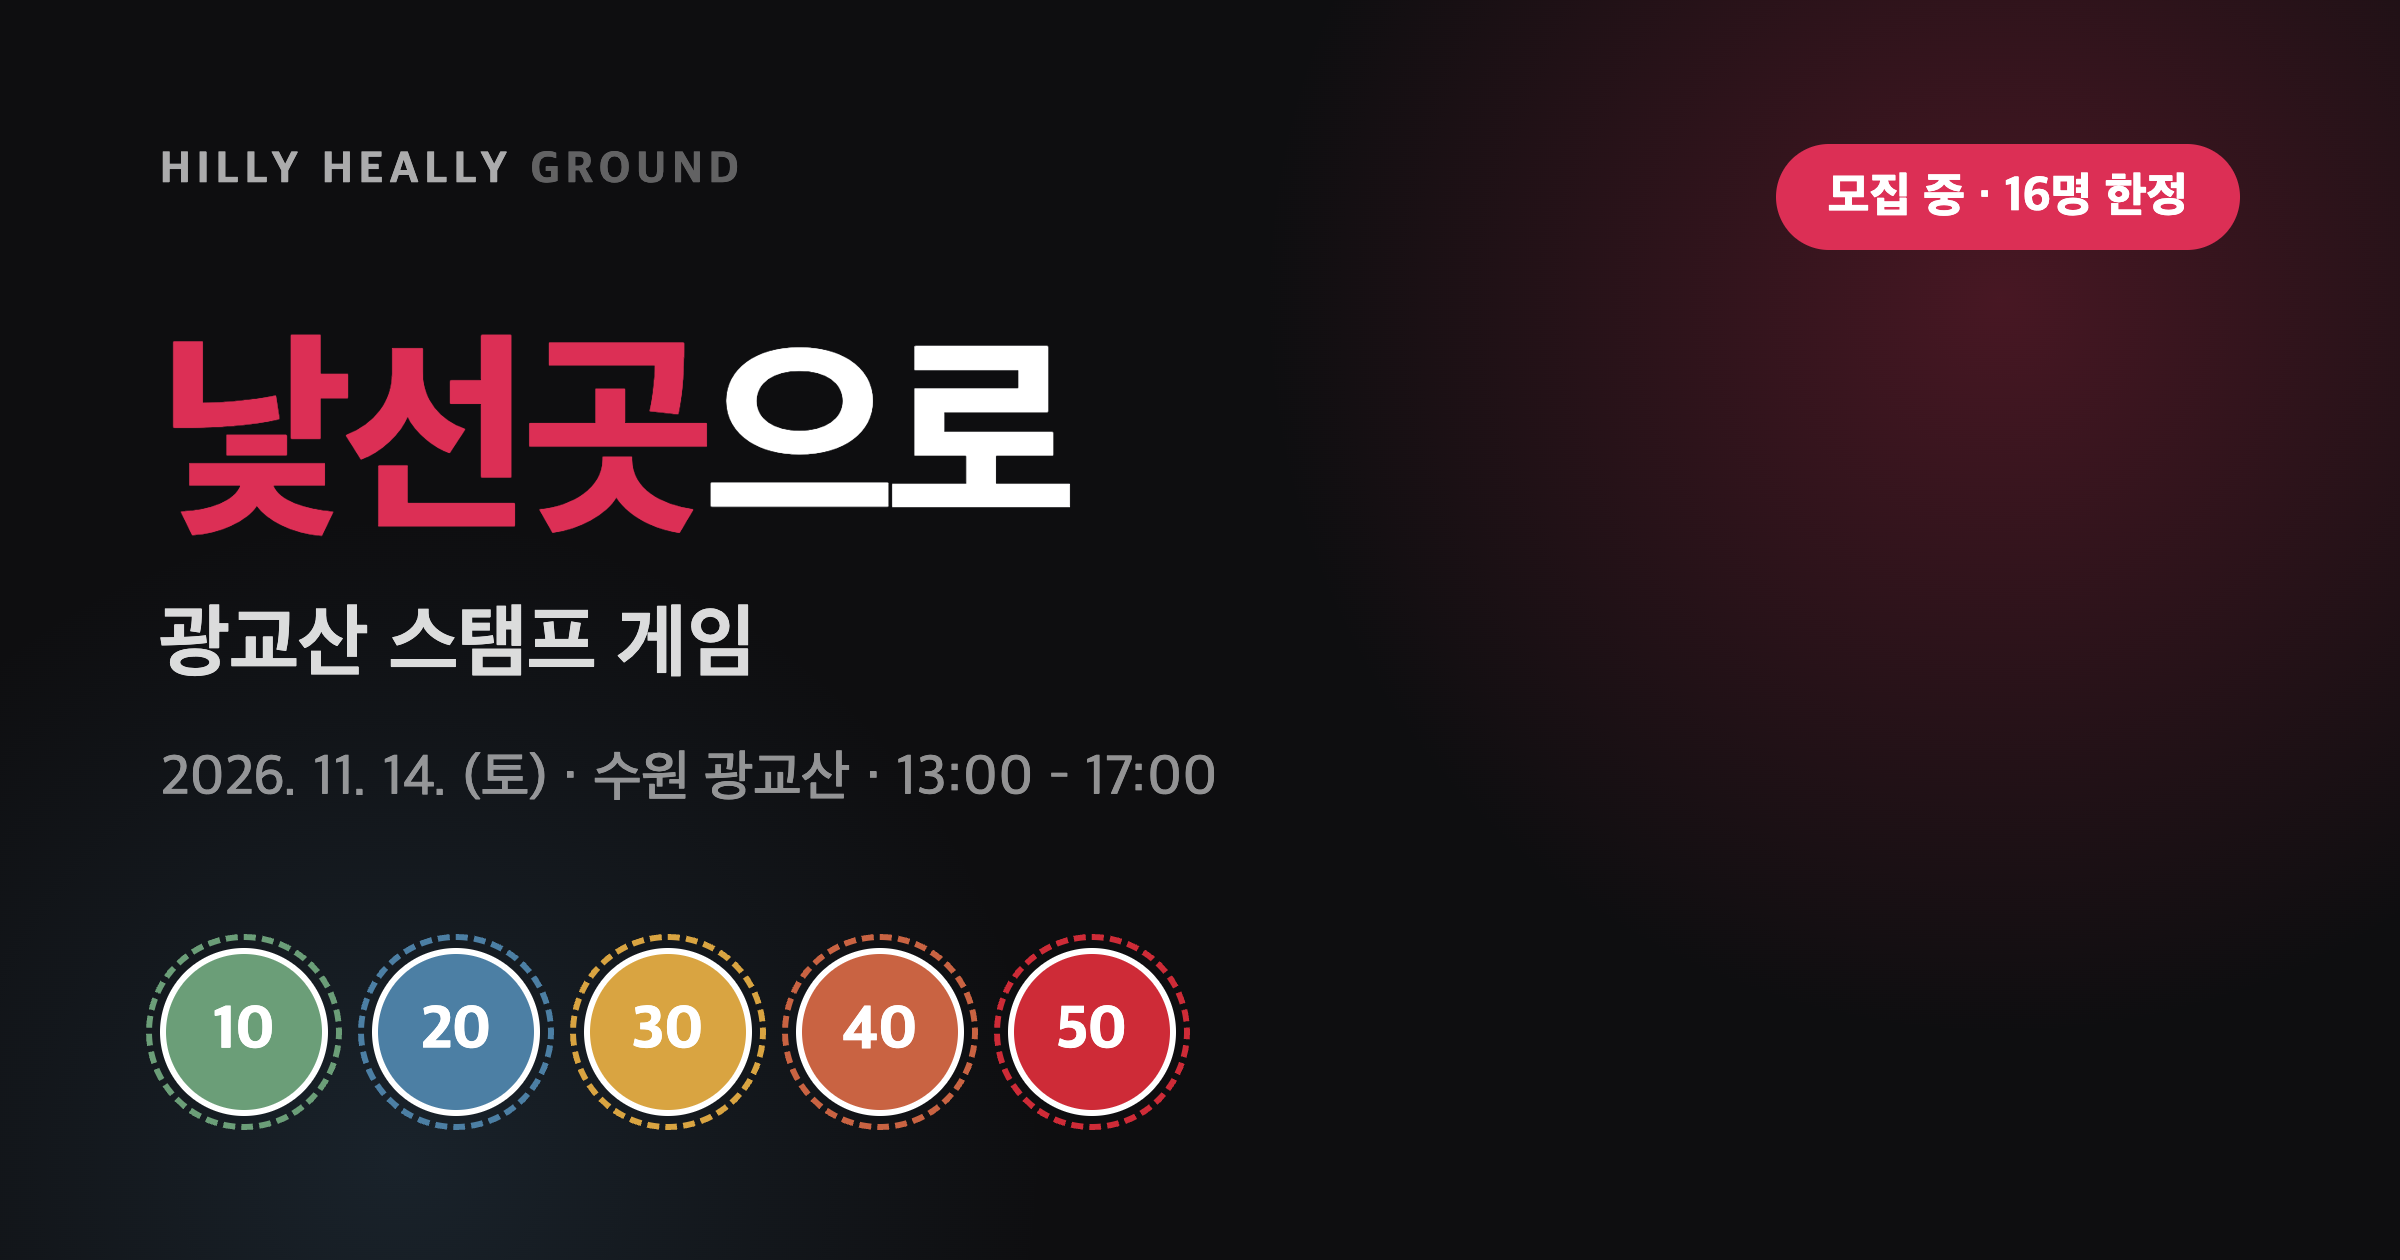
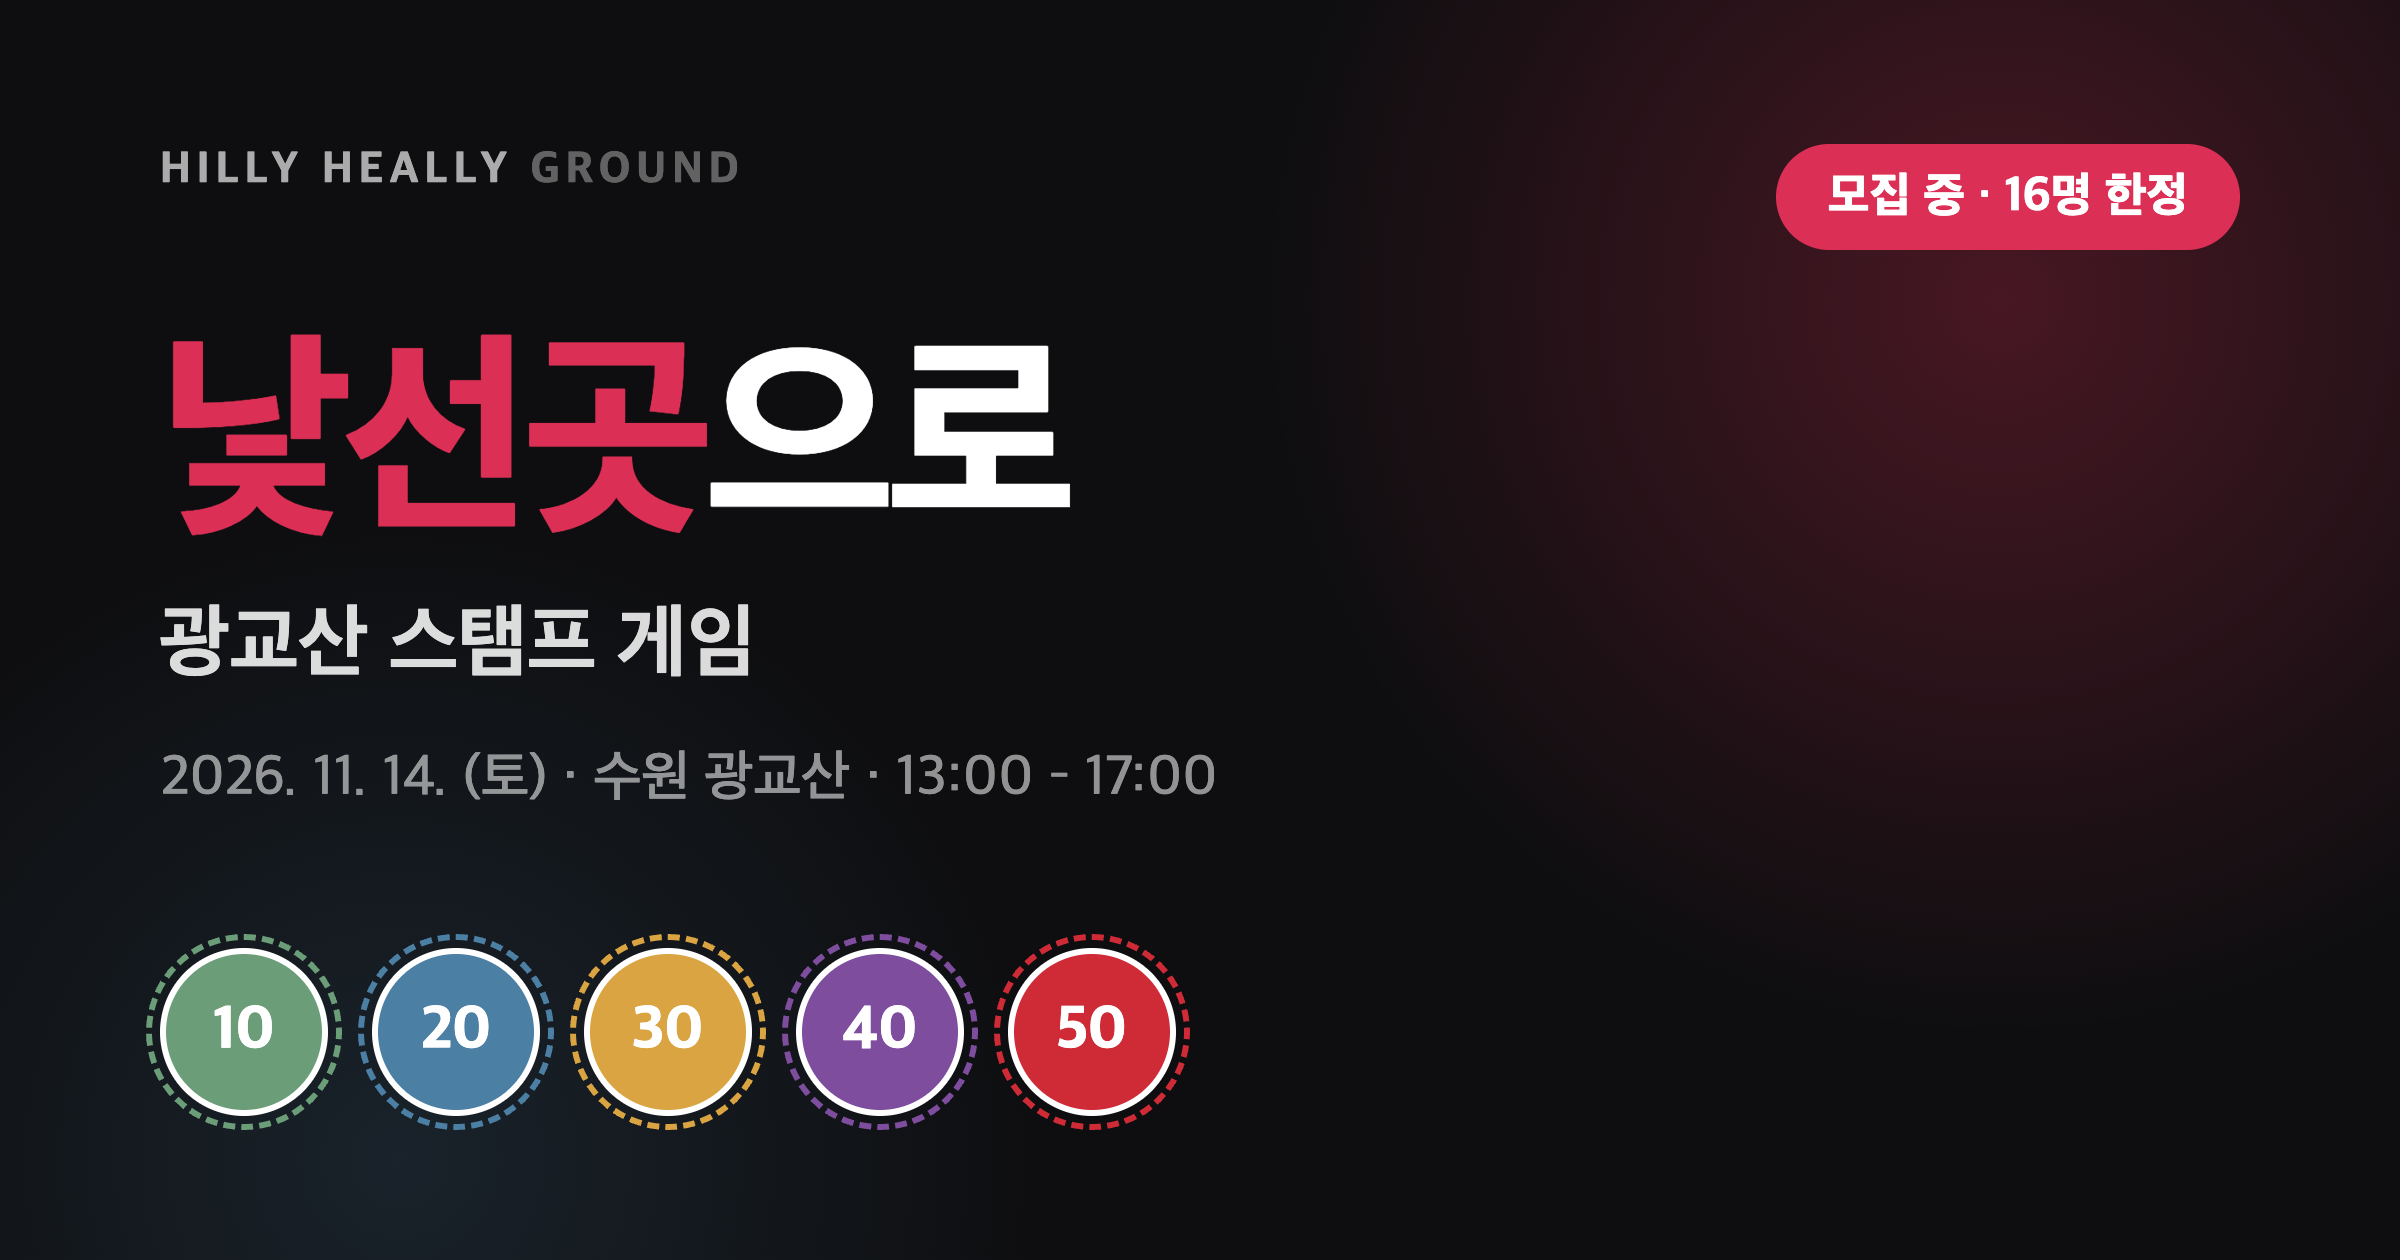
룰 변경: 정상석 누적배점 잠금 → '50점은 10·20·30·40 네 색을 모아야' + 40점 색 플럼 퍼플
- 40점 테라코타(#C96342)가 50점 크림슨과 비슷해 구분 안 되던 문제 → #7E4D9E
- OG 공유 카드 스탬프 색도 재생성

Claude-Session: https://claude.ai/code/session_01BKzdwZWhix1N7gorZSXkZg

Changed region(s): [[0.3125, 0.7429, 0.4062, 0.8976]]

diff --git a/app/events/natseongot/page.tsx b/app/events/natseongot/page.tsx
@@ -80,8 +80,8 @@ const RULES = [
   },
   {
     icon: Lock,
-    title: "진돌 — 점수를 쌓아야 정상석이 열려요",
-    desc: "정상석 체크포인트만큼은 누적 점수가 그 배점 이상일 때 찍을 수 있어요. 50점짜리 정상석에 가려면 먼저 50점을 모아야 해요. 나머지 체크포인트는 순서 제한 없이 자유롭게 찍어요.",
+    title: "50점의 열쇠 — 네 가지 색을 모아야 열려요",
+    desc: "50점 체크포인트는 10·20·30·40점 스탬프를 각각 하나 이상 가진 조만 찍을 수 있어요. 빨간 스탬프는 네 색을 모은 뒤에 찍는 마침표예요. 나머지 체크포인트는 순서 제한 없이 자유롭게 찍어요.",
   },
   {
     icon: Palette,
@@ -342,13 +342,13 @@ export default function NatseongotPage() {
             <Reveal delay={0.14}>
               <div className="rounded-2xl border border-[#DC2F55]/30 bg-[radial-gradient(120%_120%_at_0%_0%,rgba(220,47,85,0.10),transparent_55%)] p-6">
                 <p className="text-sm leading-relaxed text-muted-foreground">
-                  <b className="font-semibold text-foreground">정상석</b>{" "}
-                  체크포인트만큼은{" "}
+                  <b className="font-semibold text-foreground">50점</b>{" "}
+                  체크포인트는{" "}
                   <b className="font-semibold text-foreground">
-                    누적 점수가 그 배점 이상
+                    10·20·30·40점 스탬프를 모두 모은 조
                   </b>
-                  일 때 찍을 수 있어요. 50점짜리 정상석에 가려면 먼저 50점을
-                  모아야 해요. 나머지 체크포인트는 순서 제한 없이 자유예요.
+                  만 찍을 수 있어요. 나머지 체크포인트는 순서 제한 없이
+                  자유예요.
                 </p>
               </div>
             </Reveal>

diff --git a/lib/events/gwanggyo-cps.ts b/lib/events/gwanggyo-cps.ts
@@ -26,7 +26,7 @@ export const TIER_COLOR: Record<ScoreTier, string> = {
   10: "#6B9E78", // 세이지 그린 — 초입
   20: "#4C7FA4", // 스틸 블루 — 산중
   30: "#D9A441", // 골든 앰버 — 능선
-  40: "#C96342", // 테라코타 — 주요 봉우리
+  40: "#7E4D9E", // 플럼 퍼플 — 주요 봉우리
   50: "#CE2B37", // 크림슨 — 정상
 }
 
